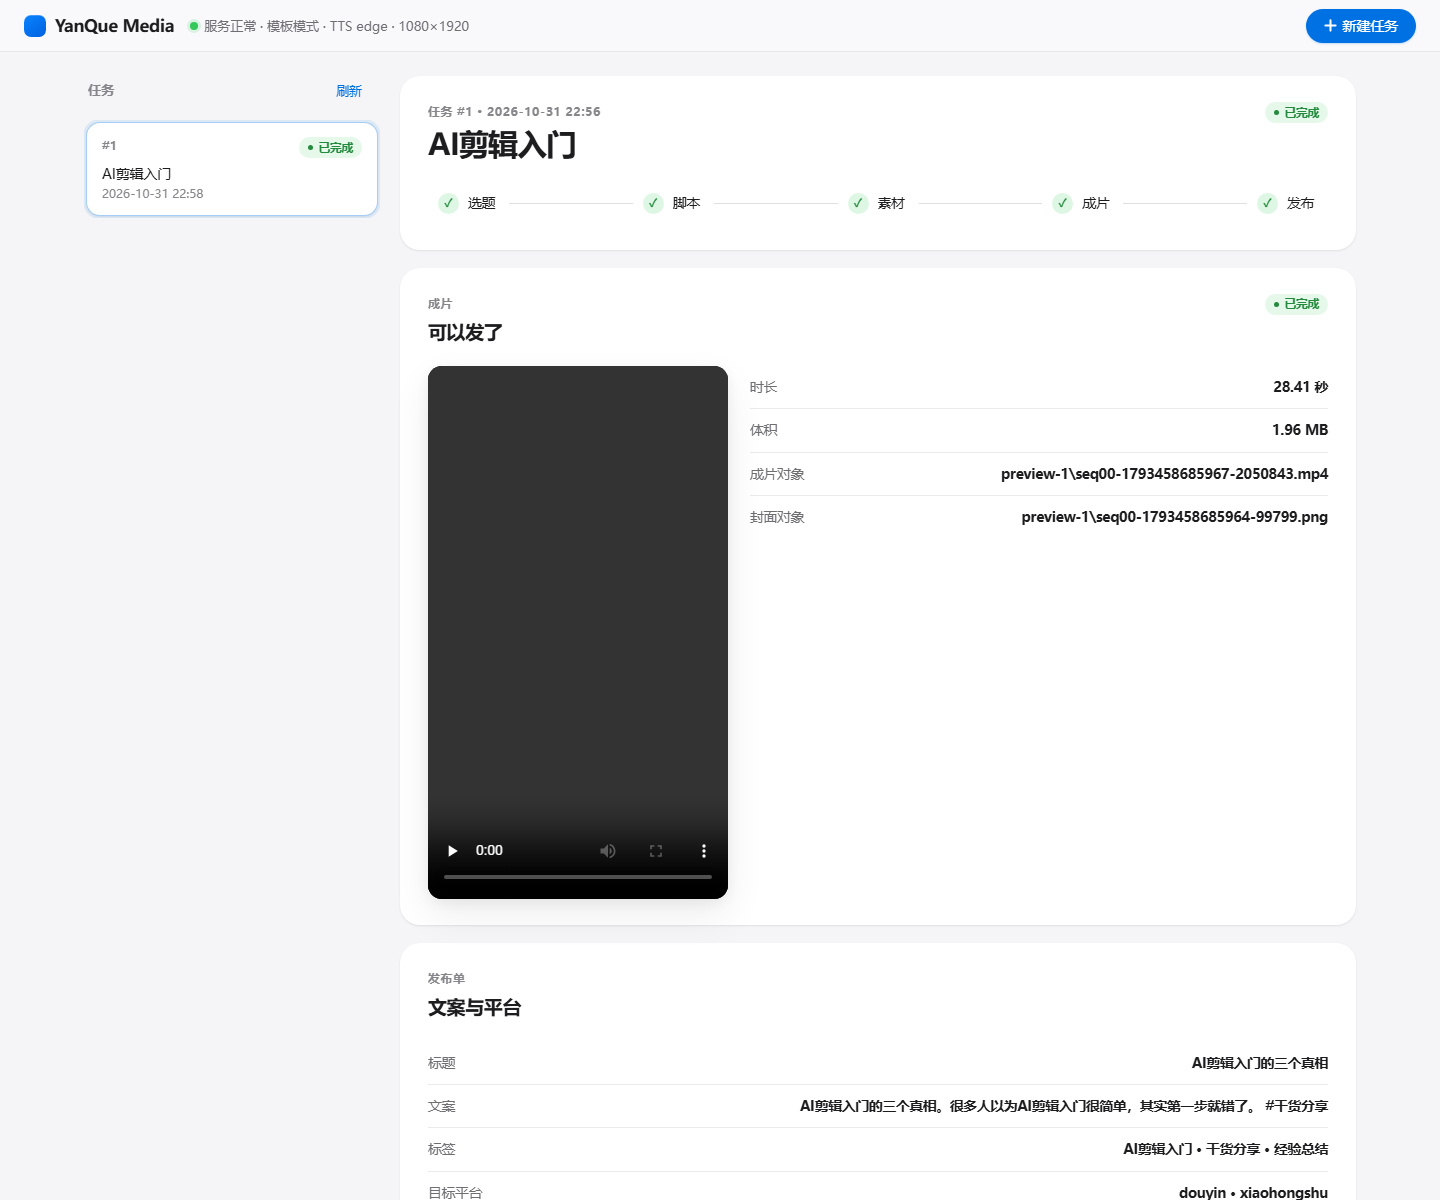
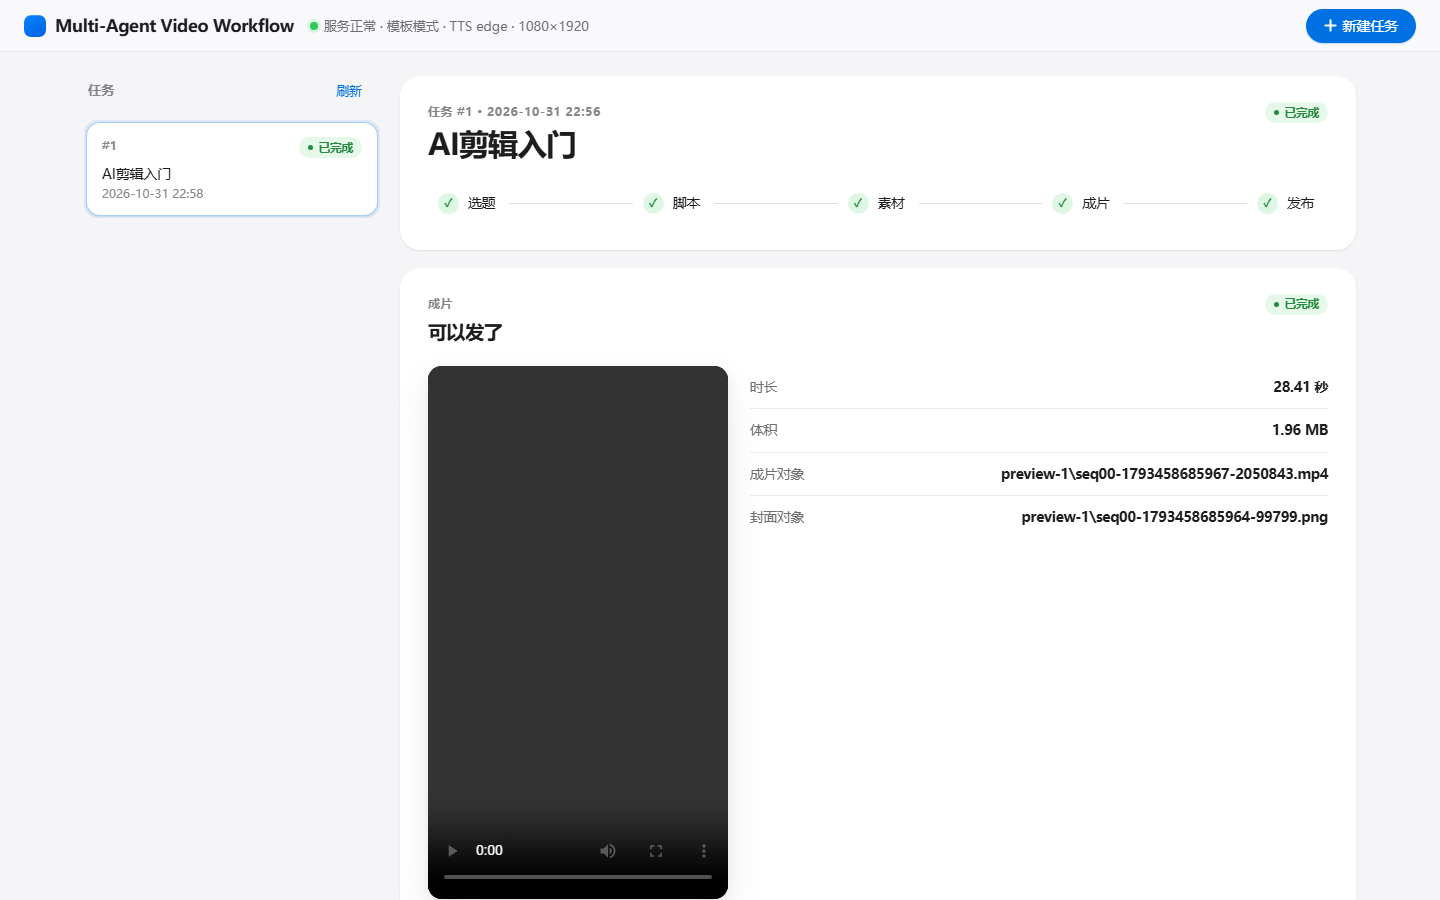
refactor: 项目更名为 Multi-agent-video-workflow，Python 包改为 mavw

diff --git a/web/index.html b/web/index.html
@@ -1,10 +1,10 @@
-<!DOCTYPE html>
+<!DOCTYPE html>
 <html lang="zh-CN">
 <head>
 <meta charset="utf-8" />
 <meta name="viewport" content="width=device-width, initial-scale=1, viewport-fit=cover" />
 <meta name="color-scheme" content="light" />
-<title>YanQue Media · 内容成片工作台</title>
+<title>Multi-Agent Video Workflow · 内容成片工作台</title>
 <link rel="stylesheet" href="/app.css" />
 </head>
 <body>
@@ -12,7 +12,7 @@
 <header class="topbar">
   <div class="brand">
     <span class="brand-mark"></span>
-    <span>YanQue Media</span>
+    <span>Multi-Agent Video Workflow</span>
   </div>
   <div class="health" id="health">
     <span class="dot"></span>

diff --git a/web/app.js b/web/app.js
@@ -1,4 +1,4 @@
-/* YanQue Media 前端：原生 JS，无构建依赖。
+/* Multi-Agent Video Workflow 前端：原生 JS，无构建依赖。
    与后端约定：
    - GET  /api/health
    - GET  /api/tasks

diff --git a/web/app.css b/web/app.css
@@ -1,4 +1,4 @@
-/* YanQue Media — Apple 风格界面
+/* Multi-Agent Video Workflow — Apple 风格界面
    设计原则：大留白、克制阴影、单一强调色、动效短而顺。 */
 
 :root {

diff --git a/scripts/demo.py b/scripts/demo.py
@@ -1,4 +1,4 @@
-"""一条命令跑完整条管线：选题 → 脚本 → 素材 → 成片 → 发布单。
+"""一条命令跑完整条管线：选题 → 脚本 → 素材 → 成片 → 发布单。
 
 用法：
     python scripts/demo.py --brief "AI 剪辑入门" --auto          # 全自动，出片即止
@@ -16,9 +16,9 @@ from pathlib import Path
 
 sys.path.insert(0, str(Path(__file__).resolve().parents[1] / "src"))
 
-from yq_fusion.config import get_settings  # noqa: E402
-from yq_fusion.pipeline.service import PipelineService  # noqa: E402
-from yq_fusion.pipeline.steps import Step  # noqa: E402
+from mavw.config import get_settings  # noqa: E402
+from mavw.pipeline.service import PipelineService  # noqa: E402
+from mavw.pipeline.steps import Step  # noqa: E402
 
 
 def _print_step(task: dict, step_code: str) -> None:
@@ -93,7 +93,7 @@ async def run(args: argparse.Namespace) -> int:
 
 
 def main() -> int:
-    parser = argparse.ArgumentParser(description="YanQue-Media-Fusion 端到端演示")
+    parser = argparse.ArgumentParser(description="Multi-agent-video-workflow 端到端演示")
     parser.add_argument("--brief", default="AI 剪辑入门", help="内容简报")
     parser.add_argument("--task-id", type=int, default=0, help="从已有任务继续")
     parser.add_argument("--auto", action="store_true", help="自动确认所有 GATE")

diff --git a/scripts/diag_tts_silence.py b/scripts/diag_tts_silence.py
@@ -1,4 +1,4 @@
-"""诊断：量一遍每段 TTS 的头尾静音与句内停顿，确认卡顿到底来自哪里。
+"""诊断：量一遍每段 TTS 的头尾静音与句内停顿，确认卡顿到底来自哪里。
 
 用法：python scripts/diag_tts_silence.py
 产物：output/diag/tts/speech-NN.wav（可直接试听）
@@ -17,10 +17,10 @@ sys.path.insert(0, str(ROOT / "src"))
 
 from types import SimpleNamespace  # noqa: E402
 
-from yq_fusion.config import get_settings  # noqa: E402
-from yq_fusion.render.ffmpeg_tools import ffmpeg_executable, probe_duration_ms  # noqa: E402
-from yq_fusion.render.renderer import _narration_text  # noqa: E402
-from yq_fusion.render.tts import VoiceSynthesizer  # noqa: E402
+from mavw.config import get_settings  # noqa: E402
+from mavw.render.ffmpeg_tools import ffmpeg_executable, probe_duration_ms  # noqa: E402
+from mavw.render.renderer import _narration_text  # noqa: E402
+from mavw.render.tts import VoiceSynthesizer  # noqa: E402
 
 SHOTS = [
     ("很多人以为AI剪辑入门很简单", "很多人以为AI剪辑入门很简单，其实第一步就错了。"),

diff --git a/scripts/smoke_gates.py b/scripts/smoke_gates.py
@@ -1,4 +1,4 @@
-"""验证「可中断 + 可反馈」：不打网络、不渲染，只跑 GATE 状态机。
+"""验证「可中断 + 可反馈」：不打网络、不渲染，只跑 GATE 状态机。
 
 覆盖：建任务 → 停在选题 GATE → 选第 2 个选题 → 停在脚本 GATE →
 打回并附修改要求 → 脚本重跑（后续步骤产物失效）→ 进程重启后从库里恢复继续。
@@ -13,9 +13,9 @@ from pathlib import Path
 
 sys.path.insert(0, str(Path(__file__).resolve().parents[1] / "src"))
 
-from yq_fusion.config import Settings  # noqa: E402
-from yq_fusion.pipeline.service import PipelineService  # noqa: E402
-from yq_fusion.pipeline.steps import Step  # noqa: E402
+from mavw.config import Settings  # noqa: E402
+from mavw.pipeline.service import PipelineService  # noqa: E402
+from mavw.pipeline.steps import Step  # noqa: E402
 
 
 def _settings(tmp: Path) -> Settings:

diff --git a/src/mavw/api.py b/src/mavw/api.py
@@ -1,4 +1,4 @@
-"""HTTP 接口层：既服务于本项目管线，也兼容 Java（yq-admin）的成品渲染调用。"""
+"""HTTP 接口层：既服务于本项目管线，也兼容 Java（yq-admin）的成品渲染调用。"""
 
 from __future__ import annotations
 
@@ -33,7 +33,7 @@ class GateBody(BaseModel):
 def create_app() -> FastAPI:
     settings = get_settings()
     service = PipelineService(settings)
-    app = FastAPI(title="YanQue Media Fusion", version="0.1.0")
+    app = FastAPI(title="Multi-Agent Video Workflow", version="0.1.0")
 
     @app.get("/api/health")
     async def health() -> dict[str, Any]:

diff --git a/scripts/serve.py b/scripts/serve.py
@@ -1,4 +1,4 @@
-"""启动 HTTP 服务：python scripts/serve.py --port 8010。"""
+"""启动 HTTP 服务：python scripts/serve.py --port 8010。"""
 
 from __future__ import annotations
 
@@ -17,7 +17,7 @@ def main() -> None:
     parser.add_argument("--port", type=int, default=8010)
     parser.add_argument("--reload", action="store_true")
     args = parser.parse_args()
-    uvicorn.run("yq_fusion.api:app", host=args.host, port=args.port, reload=args.reload)
+    uvicorn.run("mavw.api:app", host=args.host, port=args.port, reload=args.reload)
 
 
 if __name__ == "__main__":

diff --git a/src/mavw/main.py b/src/mavw/main.py
@@ -1,4 +1,4 @@
-"""服务入口：python -m yq_fusion.main 或 scripts/serve.py。"""
+"""服务入口：python -m mavw.main 或 scripts/serve.py。"""
 
 from __future__ import annotations
 
@@ -14,7 +14,7 @@ def main() -> None:
         format="%(asctime)s %(levelname)s %(name)s - %(message)s",
     )
     uvicorn.run(
-        "yq_fusion.api:app",
+        "mavw.api:app",
         host=os.getenv("HOST", "0.0.0.0"),
         port=int(os.getenv("PORT", "8010")),
     )

diff --git a/src/mavw/__init__.py b/src/mavw/__init__.py
@@ -1,4 +1,4 @@
-"""YanQue-Media-Fusion：内容生成 → 成品渲染 → 发布 的一体化融合项目。
+"""Multi-agent-video-workflow：内容生成 → 成品渲染 → 发布 的一体化融合项目。
 
 来源分工：
 - 编排（人工确认 / 可中断 / 可反馈）：移植自 YanQue-AI 的 LangGraph 内容生成链路；
